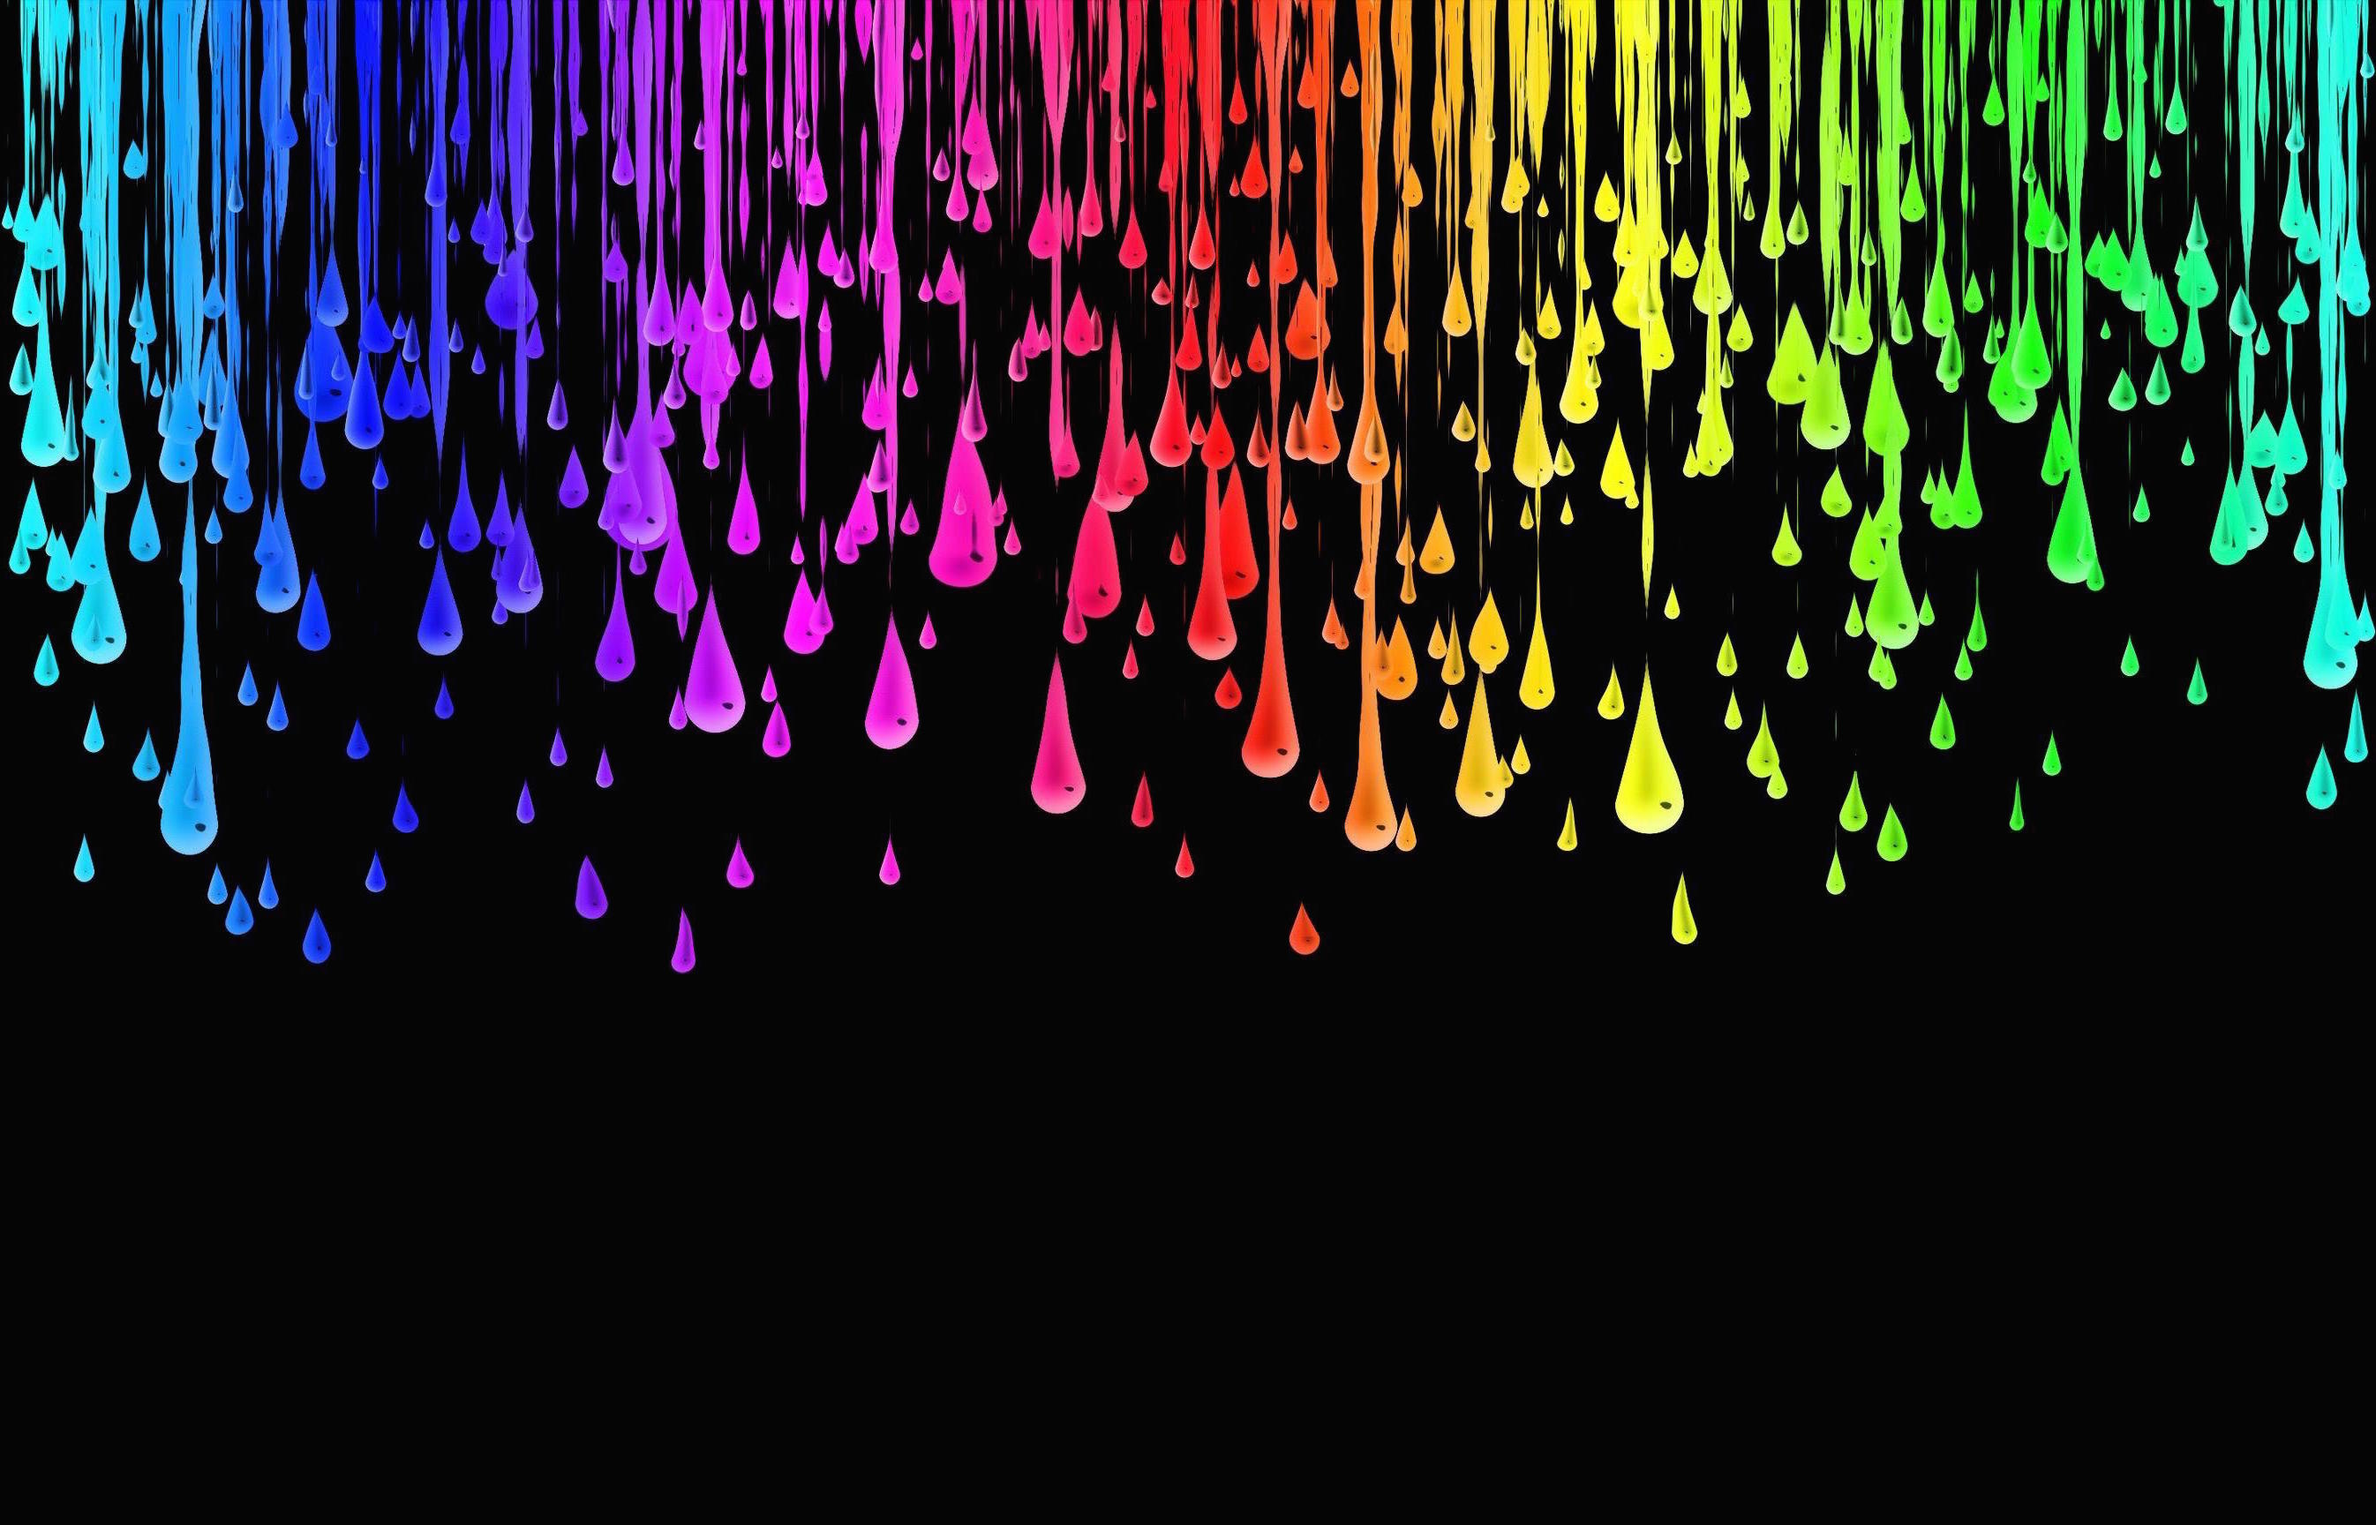
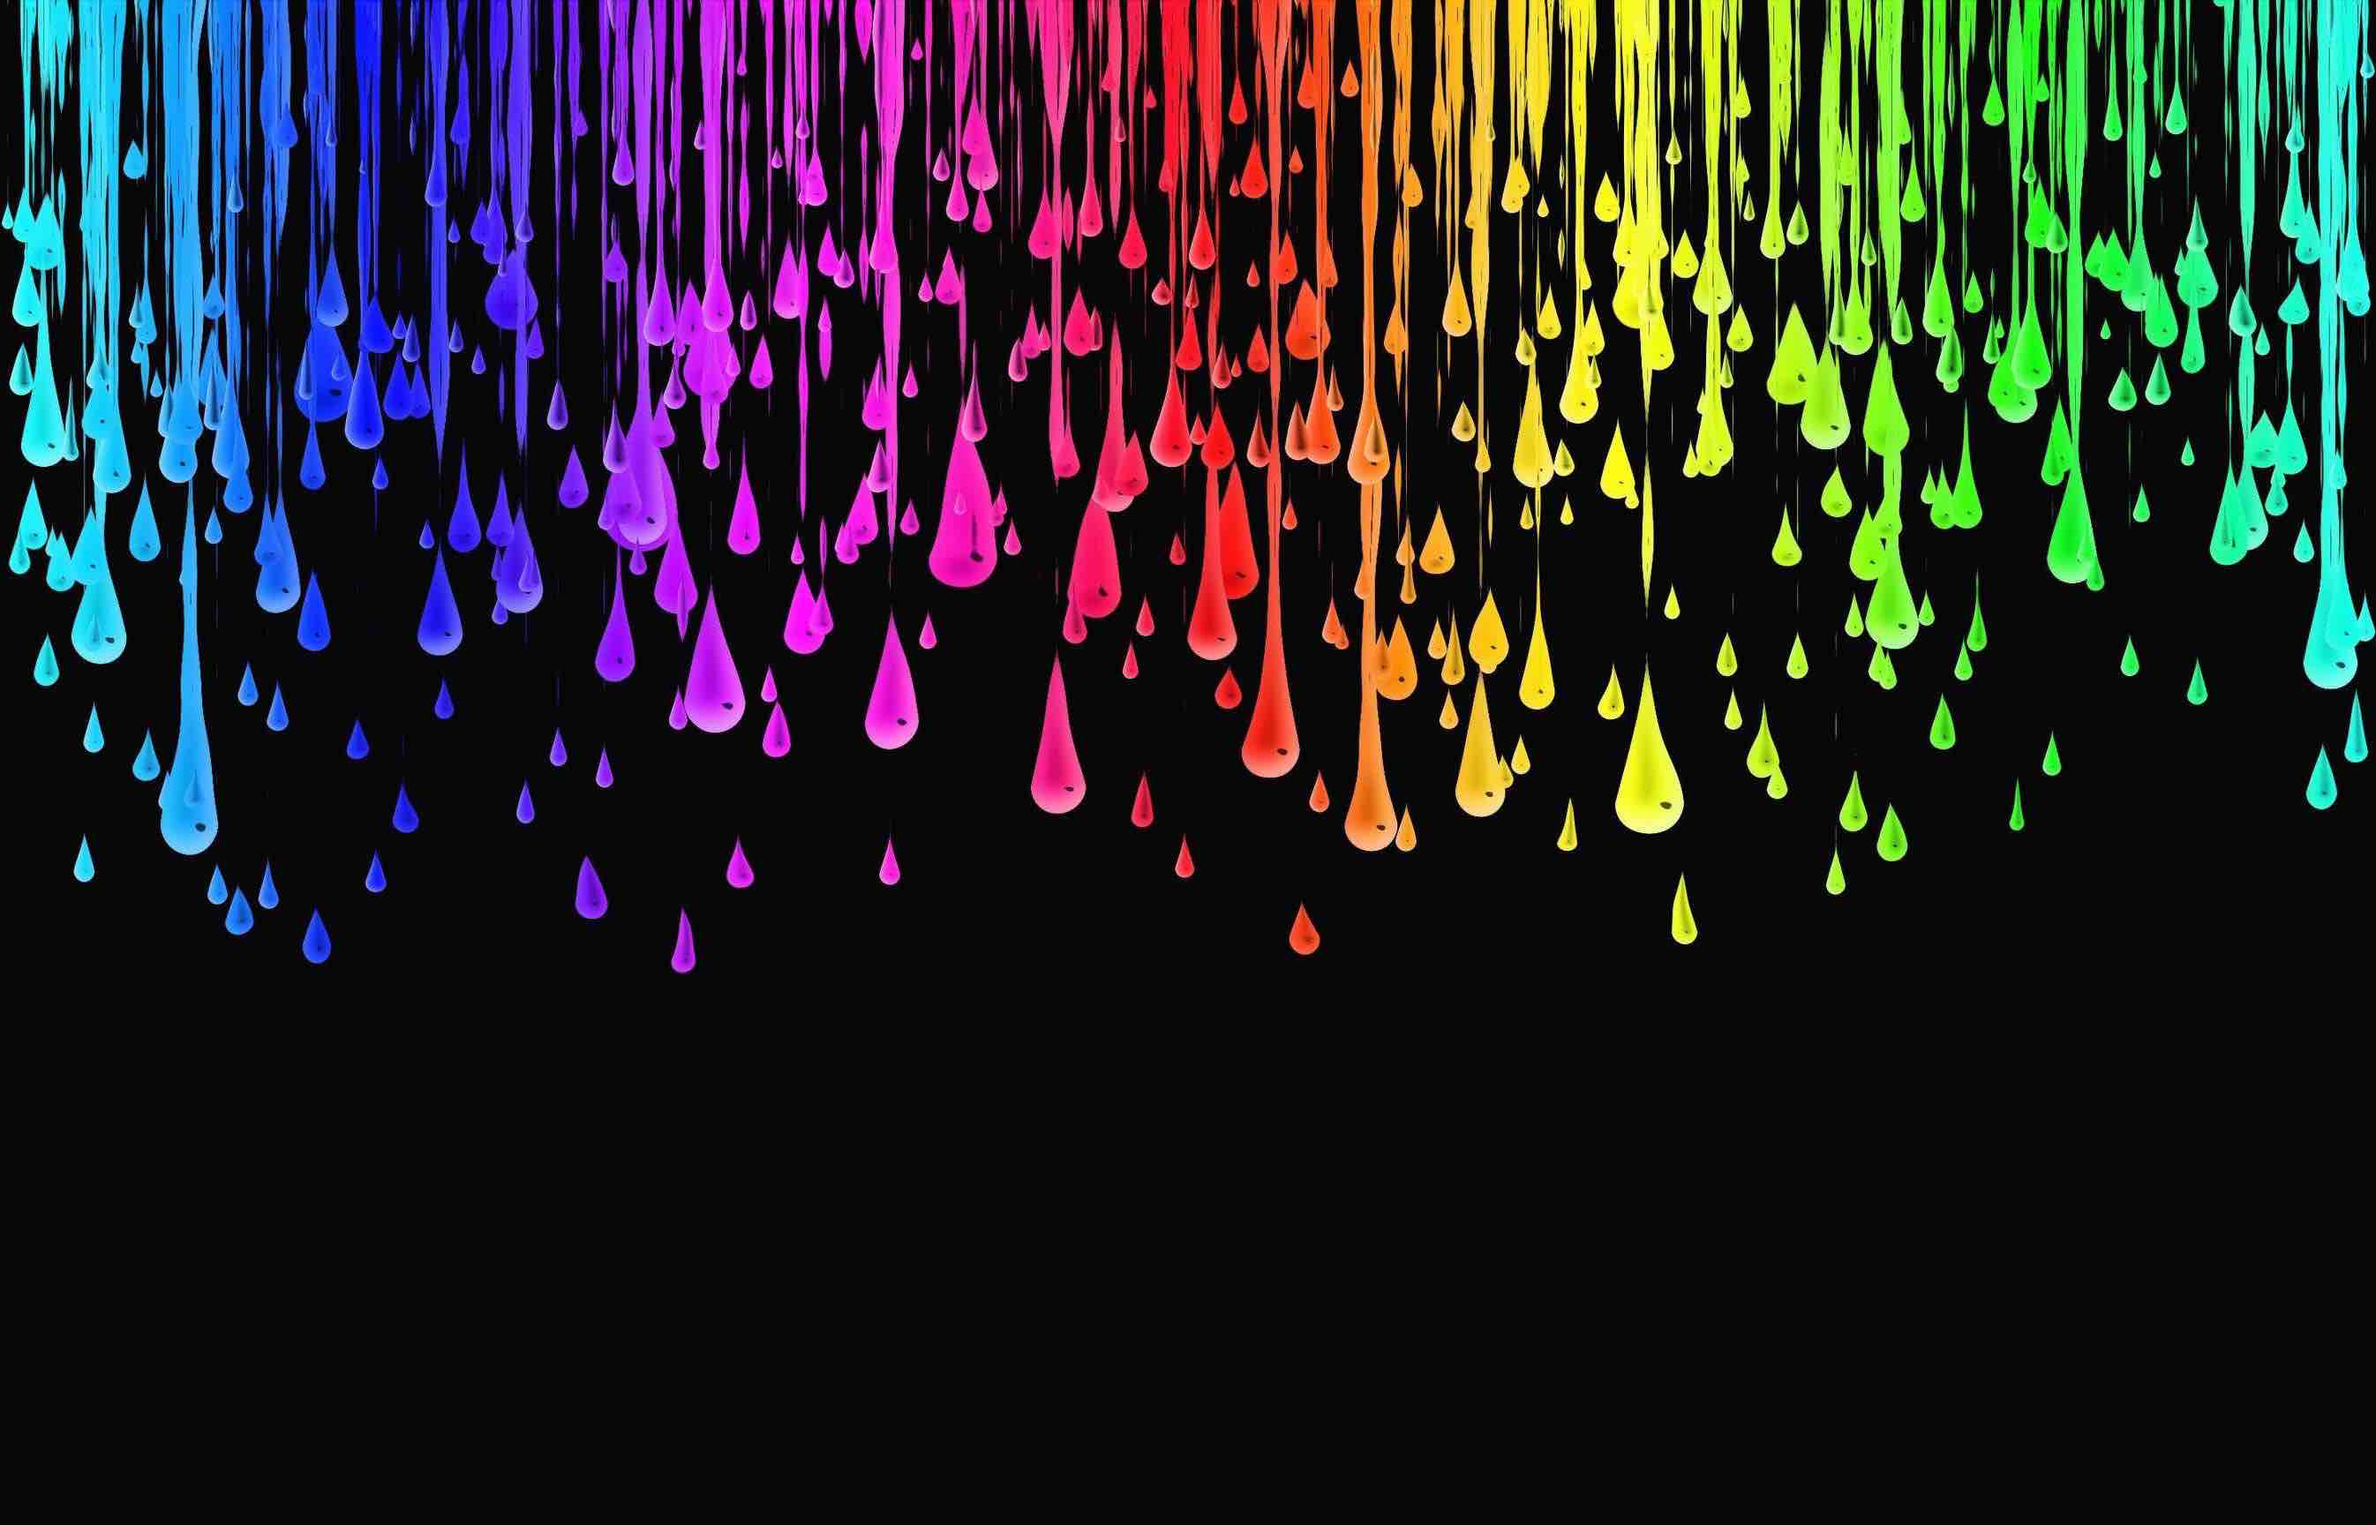
Changed images to reduce size

diff --git a/resources/views/products.blade.php b/resources/views/products.blade.php
@@ -13,9 +13,9 @@
 </div>
 <div id="prod-contents">
 	<h1 style="text-align:center">PRODUCTS </h1>
-	<img src="./Images/part-1.png" width=100% height=100%/>
-	<img src="./Images/part-2.png" width=100% height=100%/>
-	<img src="./Images/part-3.png" width=100% height=100%/>
+	<img src="./Images/part-1.jpg" width=100% height=100%/>
+	<img src="./Images/part-2.jpg" width=100% height=100%/>
+	<img src="./Images/part-3.jpg" width=100% height=100%/>
 
 <div id="footer">@include('footer')</div>
 <script src="{{ asset('http://maxcdn.bootstrapcdn.com/bootstrap/3.3.5/js/bootstrap.min.js') }}"></script>
